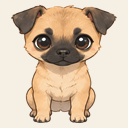
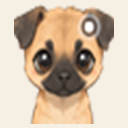
小狗光标改进：1.5 倍头部构图 + 右上角点击区域高光标记
- 实测确认 Windows 将所有光标统一渲染为系统指针尺寸（150% DPI = 48px），
  文件尺寸无法突破显示大小（probehot 尺寸策略测试 32/48/64/72/96px 全部归一化）
- 正常选择 Arrow 改为 1.5 倍绘制 + 顶部锚定裁切：头部充满光标、耳朵完整
- 全部角色光标右上角增加点击区域标记（白核+深棕环+柔光），热点=标记中心
- EnsureSeeded 改为覆盖式解压内置资源，修复 exe 更新后 AppData 资源不更新的问题
- 新增 probehot 诊断命令（DPI 感知进程内探测光标位图尺寸与热点）

diff --git a/tools/DogCursorGen.cs b/tools/DogCursorGen.cs
@@ -4,7 +4,8 @@
 //   2. 洪水填充从边缘抠掉米色背景与浅色投影（狗有完整深色轮廓线，填充不会漏进体内）
 //   3. 只保留最大不透明连通域（去掉 zZ、问号、爱心等漂浮装饰）
 //   4. 1px 羽化边缘，裁切到内容包围盒
-//   5. 高质量缩放到 32x32，按角色热点生成 .cur（复用 CursorCore.BuildCurBytes）
+//   5. 绘制到 48x48 画布（图案为 32px 适配尺寸的 1.5 倍，完整显示）
+//   6. 热点位于图案右上角，并绘制高光标记（白核+深棕环+柔光）标示点击区域
 // 用法: DogCursorGen.exe <项目根目录>
 using System;
 using System.Collections.Generic;
@@ -20,21 +21,27 @@ static class DogCursorGen
     {
         public string Name, Role;
         public RectangleF Norm;     // 在设定图上的归一化裁切区域
-        public float HotFx, HotFy;  // 热点在内容包围盒中的比例（鼻尖）
-        public Region(string name, string role, float x, float y, float w, float h, float fx, float fy)
-        { Name = name; Role = role; Norm = new RectangleF(x, y, w, h); HotFx = fx; HotFy = fy; }
+        public float HotFx, HotFy;  // 热点（点击区域）在内容包围盒中的比例：头部右上角
+        public bool FillCrop;       // true = 1.5 倍放大、顶部锚定裁掉下部（头部充满光标）
+        public Region(string name, string role, float x, float y, float w, float h, float fx, float fy, bool crop)
+        { Name = name; Role = role; Norm = new RectangleF(x, y, w, h); HotFx = fx; HotFy = fy; FillCrop = crop; }
     }
 
     // 坐标基于 1536x1024 设定图目测，QA 网格中校验后微调
+    // 注：Windows 把所有光标统一渲染为系统指针尺寸（150% DPI 下 48px），
+    //     文件尺寸无法突破；FillCrop 通过 1.5 倍绘制+裁切让主体真正变大。
+    //     头像类角色放大 1.5 倍会切掉耳朵，故仅 Arrow 使用 FillCrop。
     static readonly Region[] Regions = {
-        new Region("arrow_front", "Arrow",       0.010f, 0.075f, 0.200f, 0.490f, 0.50f, 0.35f),
-        new Region("help_dimu",   "Help",        0.018f, 0.595f, 0.150f, 0.240f, 0.52f, 0.63f),
-        new Region("hand_happy",  "Hand",        0.163f, 0.595f, 0.140f, 0.240f, 0.50f, 0.58f),
-        new Region("app_curious", "AppStarting", 0.287f, 0.575f, 0.130f, 0.255f, 0.47f, 0.58f),
-        new Region("wait_sleep",  "Wait",        0.425f, 0.635f, 0.150f, 0.215f, 0.52f, 0.72f),
+        new Region("arrow_front", "Arrow",       0.010f, 0.075f, 0.200f, 0.490f, 0.72f, 0.13f, true),
+        new Region("help_dimu",   "Help",        0.018f, 0.595f, 0.150f, 0.240f, 0.74f, 0.13f, false),
+        new Region("hand_happy",  "Hand",        0.163f, 0.595f, 0.140f, 0.240f, 0.74f, 0.13f, false),
+        new Region("app_curious", "AppStarting", 0.287f, 0.575f, 0.130f, 0.255f, 0.74f, 0.13f, false),
+        new Region("wait_sleep",  "Wait",        0.425f, 0.635f, 0.150f, 0.215f, 0.70f, 0.22f, false),
     };
 
-    const int BgTol = 48;   // 与参考色的 RGB 欧氏距离阈值
+    const int BgTol = 48;       // 与参考色的 RGB 欧氏距离阈值
+    const int Canvas = 48;      // 角色光标画布
+    const double Zoom = 1.5;    // 图案相对 32px 适配尺寸的放大倍数
 
     static int Main(string[] args)
     {
@@ -45,69 +52,101 @@ static class DogCursorGen
         Directory.CreateDirectory(outDir);
         Directory.CreateDirectory(srcDir);
 
+        List<Bitmap> finals = new List<Bitmap>();
+        List<Point> hotSpots = new List<Point>();
+        List<string> labels = new List<string>();
+
         using (Bitmap sheet = new Bitmap(sheetPath))
         {
-            List<Bitmap> keyed = new List<Bitmap>();
-            List<Point> hots = new List<Point>();
             foreach (Region r in Regions)
             {
                 Point hot;
-                Bitmap k = CropKey(sheet, r, out hot);
-                k.Save(Path.Combine(srcDir, r.Name + ".png"), ImageFormat.Png);
-                keyed.Add(k); hots.Add(hot);
-
-                // 缩放到 32x32 并生成 .cur
-                using (Bitmap cur32 = new Bitmap(32, 32, PixelFormat.Format32bppArgb))
-                using (Graphics g = Graphics.FromImage(cur32))
+                using (Bitmap k = CropKey(sheet, r, out hot))
                 {
-                    g.CompositingQuality = CompositingQuality.HighQuality;
-                    g.InterpolationMode = InterpolationMode.HighQualityBicubic;
-                    g.PixelOffsetMode = PixelOffsetMode.HighQuality;
-                    DrawScaled(g, k, new Rectangle(0, 0, 32, 32));
-                    int hx = Math.Max(0, Math.Min(31, (int)Math.Round(hot.X * 32.0 / k.Width)));
-                    int hy = Math.Max(0, Math.Min(31, (int)Math.Round(hot.Y * 32.0 / k.Height)));
+                    k.Save(Path.Combine(srcDir, r.Name + ".png"), ImageFormat.Png);
+
+                    // 48x48 画布。FillCrop：1.5 倍放大、顶部锚定（头部完整、裁掉下部身体）；
+                    // 其余：完整居中显示
+                    double s = (r.FillCrop ? Zoom : 1.0) * Canvas / (double)Math.Max(k.Width, k.Height);
+                    int dw = Math.Max(1, (int)Math.Round(k.Width * s));
+                    int dh = Math.Max(1, (int)Math.Round(k.Height * s));
+                    int ox = (Canvas - dw) / 2;
+                    int oy = r.FillCrop ? 0 : (Canvas - dh) / 2;
+
+                    Bitmap final = new Bitmap(Canvas, Canvas, PixelFormat.Format32bppArgb);
+                    using (Graphics g = Graphics.FromImage(final))
+                    {
+                        g.CompositingQuality = CompositingQuality.HighQuality;
+                        g.InterpolationMode = InterpolationMode.HighQualityBicubic;
+                        g.PixelOffsetMode = PixelOffsetMode.HighQuality;
+                        DrawScaled(g, k, new Rectangle(ox, oy, dw, dh));
+
+                        // 热点 = 图案右上角（点击区域），画高光标记
+                        int hx = Math.Max(1, Math.Min(Canvas - 2, ox + (int)Math.Round(r.HotFx * dw)));
+                        int hy = Math.Max(1, Math.Min(Canvas - 2, oy + (int)Math.Round(r.HotFy * dh)));
+                        DrawHotspotMarker(g, hx, hy);
+                        hotSpots.Add(new Point(hx, hy));
+                    }
+                    final.Save(Path.Combine(srcDir, r.Name + "_48.png"), ImageFormat.Png);
                     File.WriteAllBytes(Path.Combine(outDir, r.Role + ".cur"),
-                        CursorCore.BuildCurBytes(cur32, hx, hy));
-                    cur32.Save(Path.Combine(srcDir, r.Name + "_32.png"), ImageFormat.Png);
-                    Console.WriteLine(r.Name + " -> " + r.Role + ".cur  content " + k.Width + "x" + k.Height + "  hot(" + hx + "," + hy + ")");
+                        CursorCore.BuildCurBytes(final, hotSpots[hotSpots.Count - 1].X, hotSpots[hotSpots.Count - 1].Y));
+                    finals.Add(final);
+                    labels.Add(r.Role);
+                    Console.WriteLine(r.Name + " -> " + r.Role + ".cur  内容 " + dw + "x" + dh + "  热点(" +
+                        hotSpots[hotSpots.Count - 1].X + "," + hotSpots[hotSpots.Count - 1].Y + ")");
                 }
             }
 
-            // 方案预览图：正面全身小狗 128px，米色背景
+            // 方案预览图：最终光标（含高光标记）放大，米色背景
             using (Bitmap pv = new Bitmap(128, 128, PixelFormat.Format32bppArgb))
             using (Graphics g = Graphics.FromImage(pv))
             {
                 g.Clear(Color.FromArgb(245, 239, 228));
                 g.InterpolationMode = InterpolationMode.HighQualityBicubic;
                 g.PixelOffsetMode = PixelOffsetMode.HighQuality;
-                DrawScaled(g, keyed[0], new Rectangle(10, 4, 108, 120));
+                DrawScaled(g, finals[0], new Rectangle(14, 4, 100, 120));
                 pv.Save(Path.Combine(outDir, "preview.png"), ImageFormat.Png);
             }
 
-            // QA 网格：各裁切 + 热点十字
-            using (Bitmap qa = new Bitmap(5 * 150, 180, PixelFormat.Format32bppArgb))
+            // QA 网格：最终 48px 光标 3 倍放大 + 热点红叉，深色背景检查可见性
+            using (Bitmap qa = new Bitmap(5 * 160, 200, PixelFormat.Format32bppArgb))
             using (Graphics g = Graphics.FromImage(qa))
             {
-                g.Clear(Color.White);
+                g.Clear(Color.FromArgb(70, 70, 80));
+                g.InterpolationMode = InterpolationMode.NearestNeighbor;
+                g.PixelOffsetMode = PixelOffsetMode.Half;
                 using (Font f = new Font("Segoe UI", 9f))
-                    for (int i = 0; i < keyed.Count; i++)
+                    for (int i = 0; i < finals.Count; i++)
                     {
-                        int ox = i * 150 + 5;
-                        DrawScaled(g, keyed[i], new Rectangle(ox, 5, 140, 140));
-                        int cx = ox + (int)(140.0 * hots[i].X / keyed[i].Width);
-                        int cy = 5 + (int)(140.0 * hots[i].Y / keyed[i].Height);
+                        int bx = i * 160 + 8;
+                        g.DrawImage(finals[i], new Rectangle(bx, 8, Canvas * 3, Canvas * 3),
+                            0, 0, Canvas, Canvas, GraphicsUnit.Pixel);
+                        int cx = bx + hotSpots[i].X * 3, cy = 8 + hotSpots[i].Y * 3;
                         using (Pen p = new Pen(Color.Red, 1.5f))
                         {
-                            g.DrawLine(p, cx - 8, cy, cx + 8, cy);
-                            g.DrawLine(p, cx, cy - 8, cx, cy + 8);
+                            g.DrawLine(p, cx - 9, cy, cx + 9, cy);
+                            g.DrawLine(p, cx, cy - 9, cx, cy + 9);
                         }
-                        g.DrawString(Regions[i].Role, f, Brushes.Black, ox, 148);
+                        g.DrawString(labels[i], f, Brushes.White, bx, 156);
                     }
-                qa.Save(Path.Combine(root, "tools", "dog", "qa.png"), ImageFormat.Png);
+                qa.Save(Path.Combine(root, "tools", "dog", "qa48.png"), ImageFormat.Png);
             }
         }
+        foreach (Bitmap b in finals) b.Dispose();
         Console.WriteLine("OK");
         return 0;
+    }
+
+    // 点击区域高光标记：柔光 + 深棕环 + 白核（浅色毛发和深色背景上都可见）
+    static void DrawHotspotMarker(Graphics g, int hx, int hy)
+    {
+        g.SmoothingMode = SmoothingMode.AntiAlias;
+        using (SolidBrush b = new SolidBrush(Color.FromArgb(80, 255, 255, 255)))
+            g.FillEllipse(b, hx - 5.5f, hy - 5.5f, 11f, 11f);
+        using (Pen p = new Pen(Color.FromArgb(230, 74, 54, 38), 1.6f))
+            g.DrawEllipse(p, hx - 3.1f, hy - 3.1f, 6.2f, 6.2f);
+        using (SolidBrush b = new SolidBrush(Color.White))
+            g.FillEllipse(b, hx - 2.1f, hy - 2.1f, 4.2f, 4.2f);
     }
 
     // 高质量缩放（边缘镜像采样避免光晕）

diff --git a/src/CursorCore.cs b/src/CursorCore.cs
@@ -184,7 +184,8 @@ namespace CursorStudio
             settings = LoadSettings();
         }
 
-        // 把编译进 exe 的内置方案解压到 %APPDATA%\CursorStudio\Schemes（已存在的文件不覆盖）
+        // 把编译进 exe 的内置方案解压到 %APPDATA%\CursorStudio\Schemes
+        // 内置资源文件始终覆盖（保证 exe 更新后资源同步）；方案名清单走 MergeManifest 保留用户自定义条目
         public static void EnsureSeeded()
         {
             EnsureDirs();
@@ -206,10 +207,9 @@ namespace CursorStudio
                     string scheme = rel.Substring(0, idx);
                     string file = rel.Substring(idx + 1);
                     string target = Path.Combine(Path.Combine(SchemesDir, scheme), file);
-                    if (File.Exists(target)) continue;
                     Directory.CreateDirectory(Path.GetDirectoryName(target));
                     using (Stream s = asm.GetManifestResourceStream(name))
-                    using (FileStream fs = new FileStream(target, FileMode.CreateNew, FileAccess.Write))
+                    using (FileStream fs = new FileStream(target, FileMode.Create, FileAccess.Write))
                     { byte[] buf = new byte[s.Length]; s.Read(buf, 0, buf.Length); fs.Write(buf, 0, buf.Length); }
                 }
                 catch { /* 单个资源失败不影响整体 */ }
@@ -913,6 +913,8 @@ namespace CursorStudio
                     return Probe();
                 case "probe2":
                     return Probe2();
+                case "probehot":
+                    return ProbeHot();
                 case "apply":
                     if (args.Length < 2) { CLine("用法: CursorStudio.exe apply <方案id>"); return 1; }
                     return ApplyScheme(args[1], true) ? Success("已应用方案: " + args[1]) : Fail("找不到方案: " + args[1]);
@@ -1033,6 +1035,58 @@ namespace CursorStudio
             }
             catch (Exception ex) { lines.Add("EXCEPTION: " + ex); }
             try { File.WriteAllLines(Path.Combine(AppDir, "probe2.log"), lines, Encoding.UTF8); } catch { }
+            foreach (string l in lines) TryConsole(l);
+            return 0;
+        }
+
+        // DPI 感知进程内的权威热点探测：加载 .cur 后报告位图尺寸与热点
+        static int ProbeHot()
+        {
+            EnsureInit();
+            List<string> lines = new List<string>();
+            try
+            {
+                string file = Path.Combine(SchemesDir, "puppy", "Arrow.cur");
+                IntPtr h = LoadCursorFromFileW(file);
+                ICONINFO ii = new ICONINFO();
+                if (GetIconInfo(h, ref ii))
+                {
+                    BITMAP bmp = new BITMAP();
+                    GetObjectW(ii.hbmColor, Marshal.SizeOf(typeof(BITMAP)), ref bmp);
+                    lines.Add("file=" + file);
+                    lines.Add("bitmap=" + bmp.bmWidth + "x" + Math.Abs(bmp.bmHeight) + "  hotspot=(" + ii.xHotspot + "," + ii.yHotspot + ")");
+                    if (ii.hbmColor != IntPtr.Zero) DeleteObject(ii.hbmColor);
+                    if (ii.hbmMask != IntPtr.Zero) DeleteObject(ii.hbmMask);
+                }
+                DestroyCursor(h);
+
+                // 尺寸策略测试：32/48/64/72/96px 测试文件各自的加载位图尺寸
+                foreach (int size in new int[] { 32, 48, 64, 72, 96 })
+                {
+                    string testFile = Path.Combine(AppDir, "size_test_" + size + ".cur");
+                    using (Bitmap tb = new Bitmap(size, size, PixelFormat.Format32bppArgb))
+                    using (Graphics tg = Graphics.FromImage(tb))
+                    {
+                        tg.Clear(Color.FromArgb(200, 60, 60, 90));
+                        tg.FillEllipse(Brushes.Yellow, size / 2 - 2, size / 2 - 2, 4, 4);
+                        File.WriteAllBytes(testFile, BuildCurBytes(tb, size / 2, size / 2));
+                    }
+                    IntPtr th = LoadCursorFromFileW(testFile);
+                    ICONINFO ti = new ICONINFO();
+                    if (th != IntPtr.Zero && GetIconInfo(th, ref ti))
+                    {
+                        BITMAP tbmp = new BITMAP();
+                        GetObjectW(ti.hbmColor, Marshal.SizeOf(typeof(BITMAP)), ref tbmp);
+                        lines.Add("test " + size + "px -> bitmap " + tbmp.bmWidth + "x" + Math.Abs(tbmp.bmHeight) + "  hotspot=(" + ti.xHotspot + "," + ti.yHotspot + ")");
+                        if (ti.hbmColor != IntPtr.Zero) DeleteObject(ti.hbmColor);
+                        if (ti.hbmMask != IntPtr.Zero) DeleteObject(ti.hbmMask);
+                        DestroyCursor(th);
+                    }
+                    try { File.Delete(testFile); } catch { }
+                }
+            }
+            catch (Exception ex) { lines.Add("EXCEPTION: " + ex); }
+            try { File.WriteAllLines(Path.Combine(AppDir, "probehot.log"), lines, Encoding.UTF8); } catch { }
             foreach (string l in lines) TryConsole(l);
             return 0;
         }

diff --git a/README.md b/README.md
@@ -53,18 +53,25 @@ Windows 11 会话中途可能把系统光标槽位重置为经典样式（微软
 1. 按归一化坐标从设定图裁出各姿态
 2. 洪水填充从边缘抠掉米色背景与投影（小狗有完整深色轮廓线，填充不会漏进体内）
 3. 只保留最大不透明连通域（自动去掉 zZ、问号、爱心等漂浮装饰）
-4. 1px 羽化边缘 → 高质量缩放到 32×32 → 按角色热点生成 .cur
+4. 1px 羽化边缘 → 绘制到 48×48 画布 → 按角色热点生成 .cur
+
+> **关于光标尺寸**：Windows 会把所有光标统一渲染为系统指针尺寸（150% DPI 下为 48 物理像素，实测 32/48/64/72/96px 文件全部被归一化到 48），文件尺寸无法突破。
+> 因此"正常选择"采用 **1.5 倍绘制 + 顶部锚定裁切**构图：头部充满整个光标、耳朵完整，牺牲下部身体；
+> 头像类角色（忙碌/后台运行/链接选择/帮助）若放大 1.5 倍会切掉耳朵，保持完整头像构图。
+> 若希望光标整体更大，可在 设置 → 辅助功能 → 鼠标指针 → 大小 调整系统指针尺寸，所有方案会同步变大。
 
 角色映射：
 
 | 光标角色 | 素材 | 热点 |
 | --- | --- | --- |
-| 正常选择 Arrow | 正面坐姿全身 | 鼻尖 |
-| 忙碌 Wait | 睡觉表情 | 鼻尖 |
-| 后台运行 AppStarting | 好奇表情头像 | 鼻尖 |
-| 链接选择 Hand | 开心吐舌头像 | 鼻尖 |
-| 帮助选择 Help | 呆萌表情头像 | 鼻尖 |
+| 正常选择 Arrow | 正面坐姿（1.5 倍头部构图） | 头部右上角高光标记 |
+| 忙碌 Wait | 睡觉表情 | 头部右上角高光标记 |
+| 后台运行 AppStarting | 好奇表情头像 | 头部右上角高光标记 |
+| 链接选择 Hand | 开心吐舌头像 | 头部右上角高光标记 |
+| 帮助选择 Help | 呆萌表情头像 | 头部右上角高光标记 |
 | 文本/调整大小等 9 个功能角色 | 用设定图配色（蜂蜜棕/奶油/腮红粉）重绘经典形状 | 形状中心 |
+
+每个角色光标的右上角都绘制了"白核 + 深棕环 + 柔光"的**点击区域标记**，热点即标记中心。
 
 重新生成：`rm cursors/manifest.txt && tools\GenCursors.exe . && tools\DogCursorGen.exe .`（顺序不能反，DogCursorGen 会覆盖前 5 个角色）。
 
@@ -93,7 +100,7 @@ build.cmd
 - **退出行为**：默认勾选"退出程序时恢复系统默认光标"。若希望退出后光标保持自定义，取消勾选即可（重新登录时仍会按注册表自动应用）。
 - **程序崩溃不会还原光标**，但注册表方案仍在，重新打开程序或重新登录即可恢复一致状态。
 - **Help 角色**没有 OCR 槽位、只能由 `SPI_SETCURSORS` 装载；本机 SPI 失效时该角色沿用系统默认（使用频率极低，无实际影响）。
-- 光标文件为标准 32×32，高 DPI 下由系统按比例缩放（与 Windows 自带方案行为一致）。
+- 光标渲染尺寸由系统统一决定（150% DPI 下为 48 物理像素），文件尺寸不会改变显示大小；小狗 Arrow 通过 1.5 倍裁切构图让主体显著变大。
 - 全屏独占游戏、部分远程桌面会话可能不显示系统级替换的光标。
 - 若以管理员身份运行本程序，写入的注册表属于管理员账户；请以普通权限运行（默认即是）。
 
